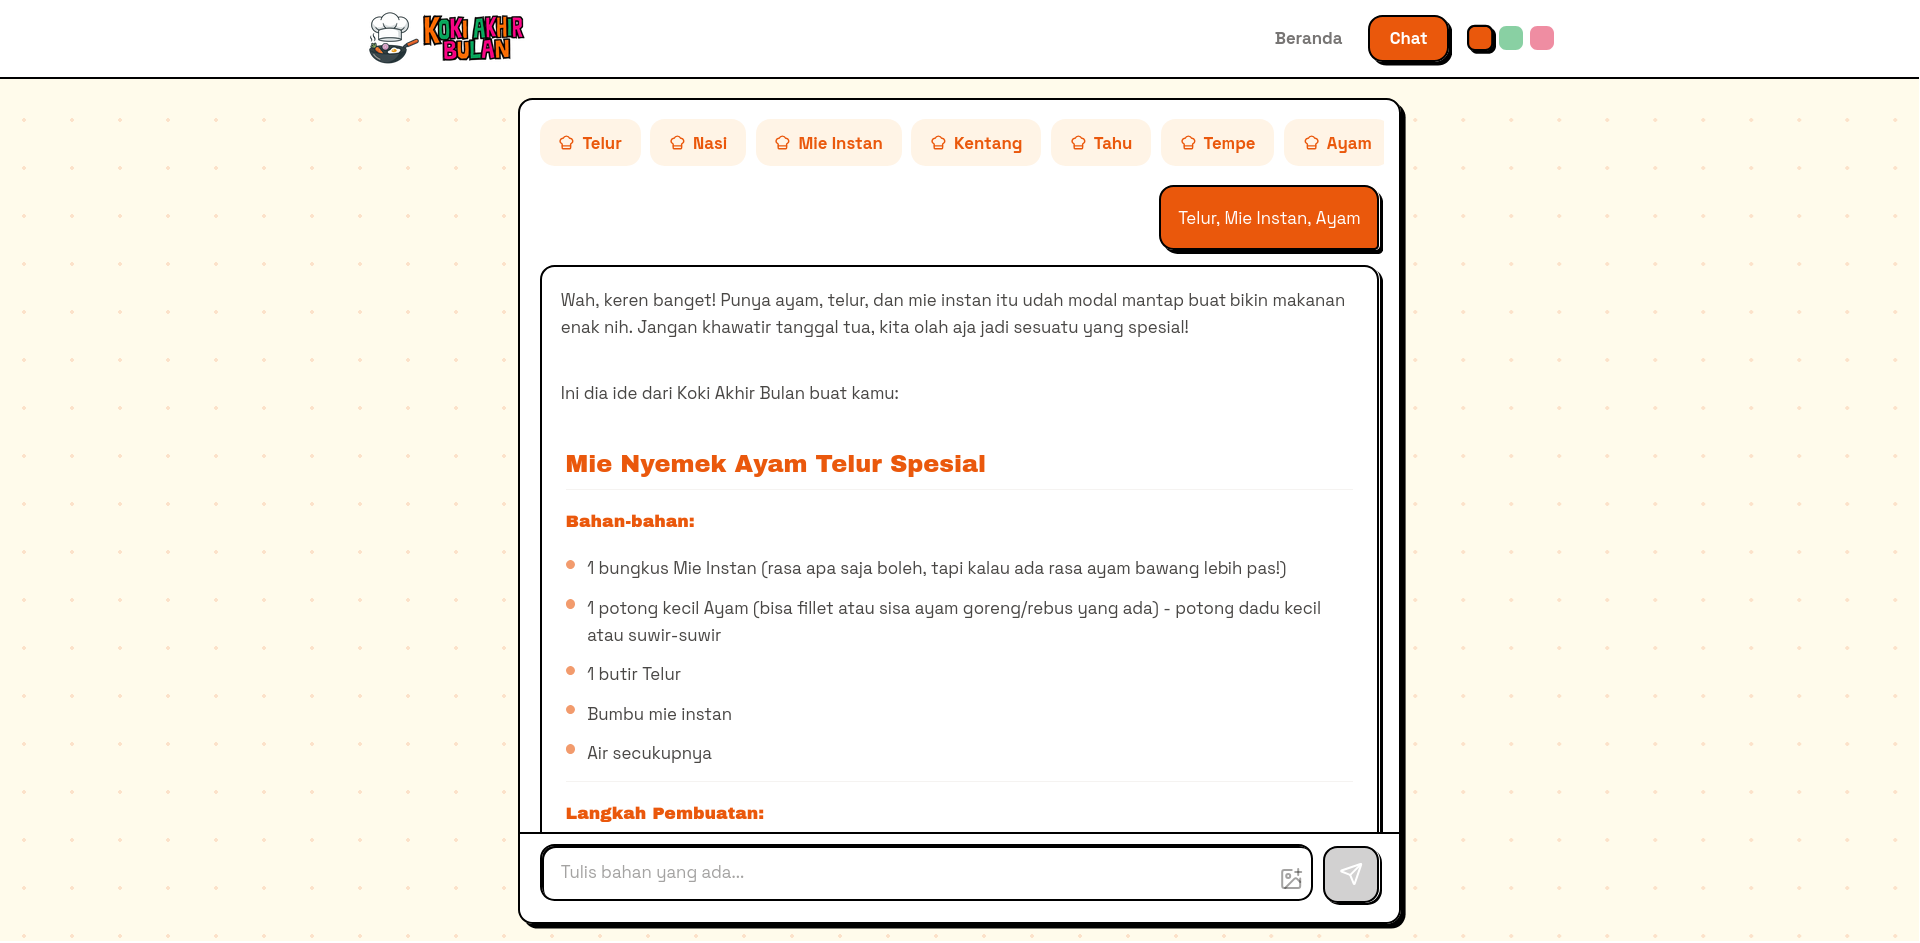
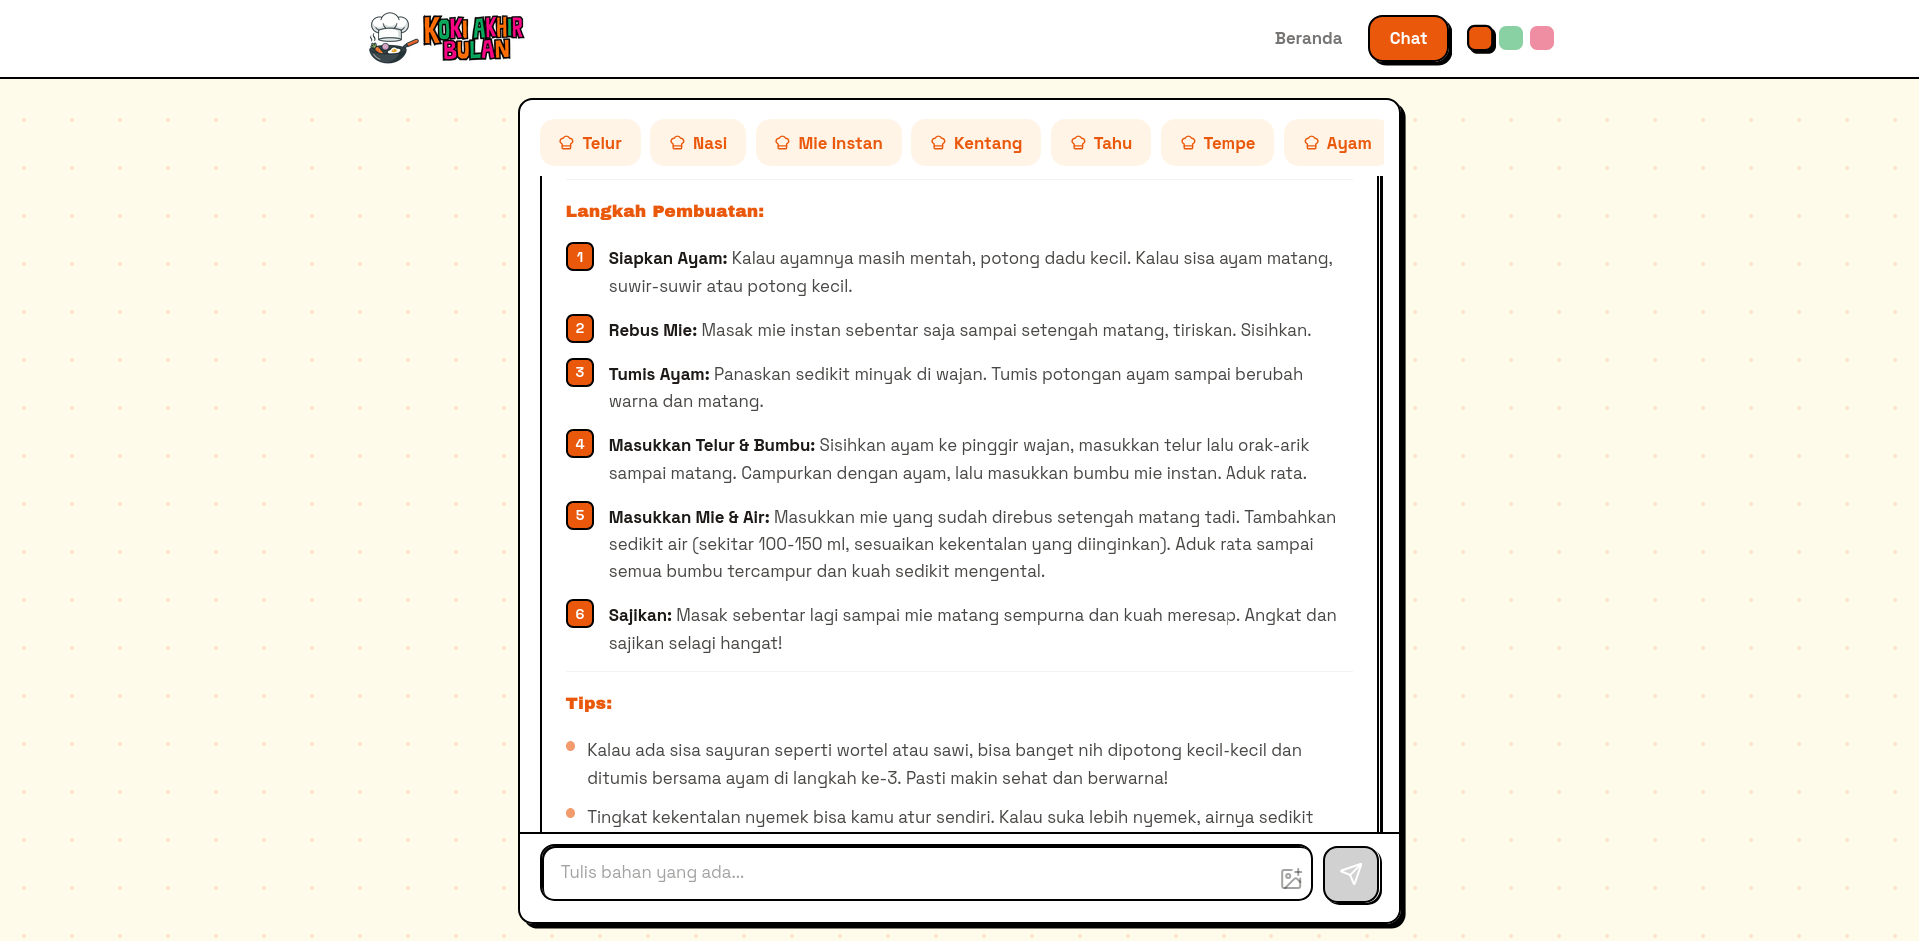
update README and add new screenshots for improved documentation

Changed region(s): [[0.2812, 0.1845, 0.7188, 0.4305], [0.2812, 0.4613, 0.6875, 0.6151], [0.2812, 0.6151, 0.6875, 0.8918]]

diff --git a/README.md b/README.md
@@ -32,7 +32,7 @@ Tulis atau foto bahan yang ada, dapatkan resep instan.
 | ![](screenshots/6.%20Screenshot.png) | ![](screenshots/7.%20Screenshot.png) |
 
 ### Mobile
-![](screenshots/9.Screenshot%20Mobile.png)
+![](screenshots/9.%20Screenshot%20Mobile.png)
 
 ## Cara Menjalankan
 